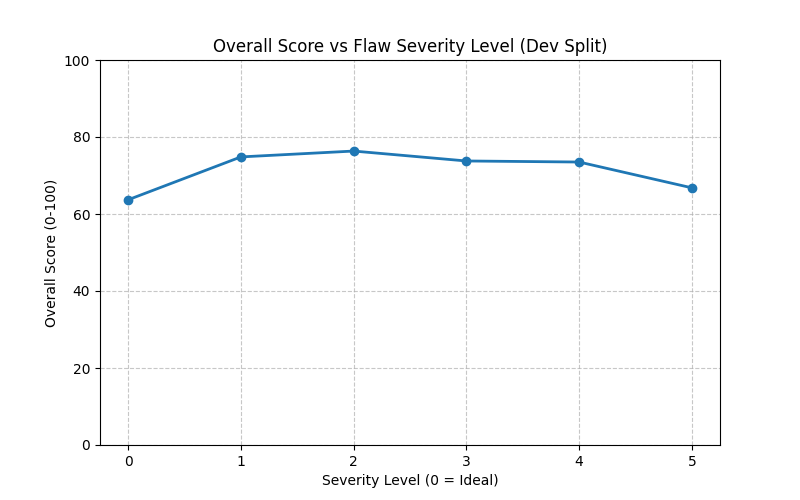
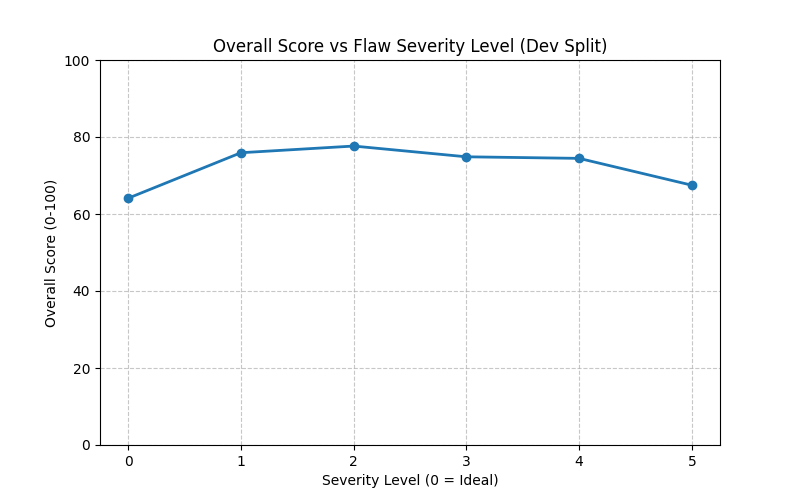
Pipeline: adjust window size and thresholds to reduce alignment jitter false positives (task B5)

Changed region(s): [[0.2188, 0.27, 0.875, 0.39], [0.1562, 0.36, 0.2188, 0.42]]

diff --git a/src/speechcoach/features/words.py b/src/speechcoach/features/words.py
@@ -64,7 +64,7 @@ def _finite_std(x: np.ndarray) -> float:
     x = x[np.isfinite(x)]
     return float(x.std()) if x.size >= 2 else float("nan")
 
-def window_stats(g: dict, words: list[dict], W: int = 6) -> dict[str, np.ndarray]:
+def window_stats(g: dict, words: list[dict], W: int = 12) -> dict[str, np.ndarray]:
     """
     Compute sliding window statistics over W words.
     

diff --git a/scripts/tune_dev.py b/scripts/tune_dev.py
@@ -99,8 +99,8 @@ def main():
     best_params = (2.0, 1.5)
     
     # Tuning grid
-    tau_flags = [1.5, 2.0, 2.5]
-    tau_trims = [1.0, 1.5, 2.0]
+    tau_flags = [3.0, 4.0, 5.0, 6.0]
+    tau_trims = [1.5, 2.0, 3.0]
     
     for tf in tau_flags:
         for tt in tau_trims:
